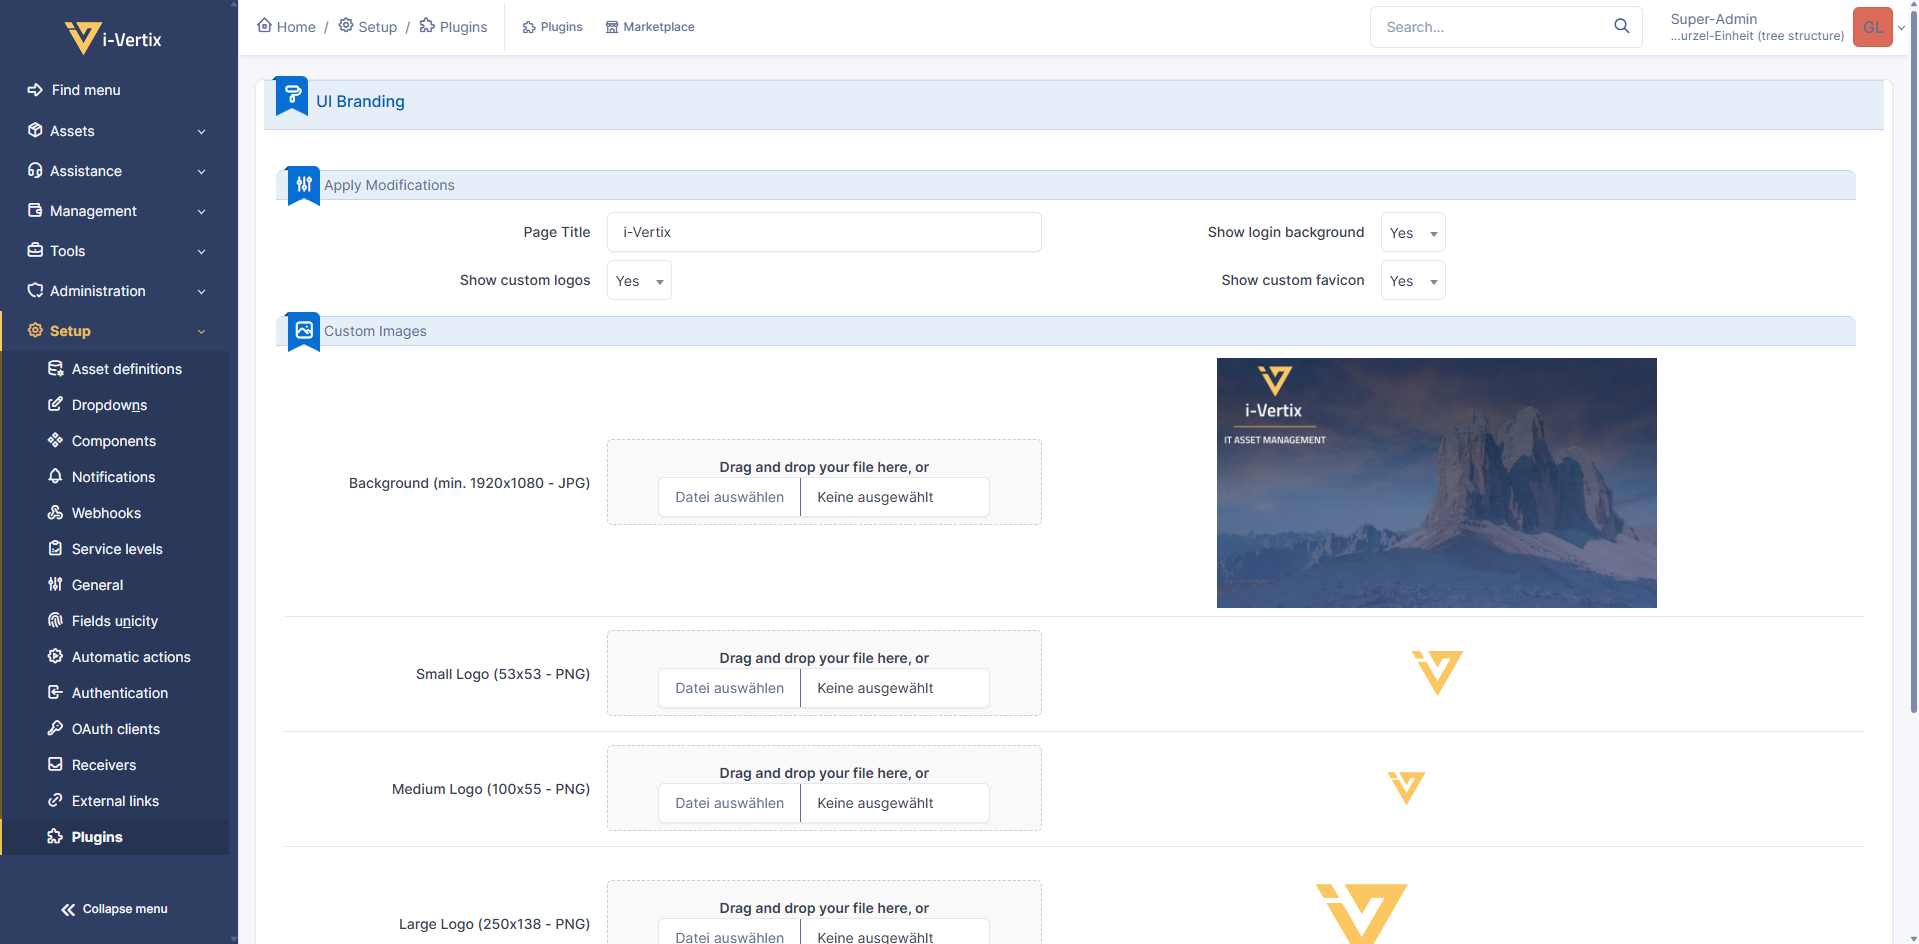
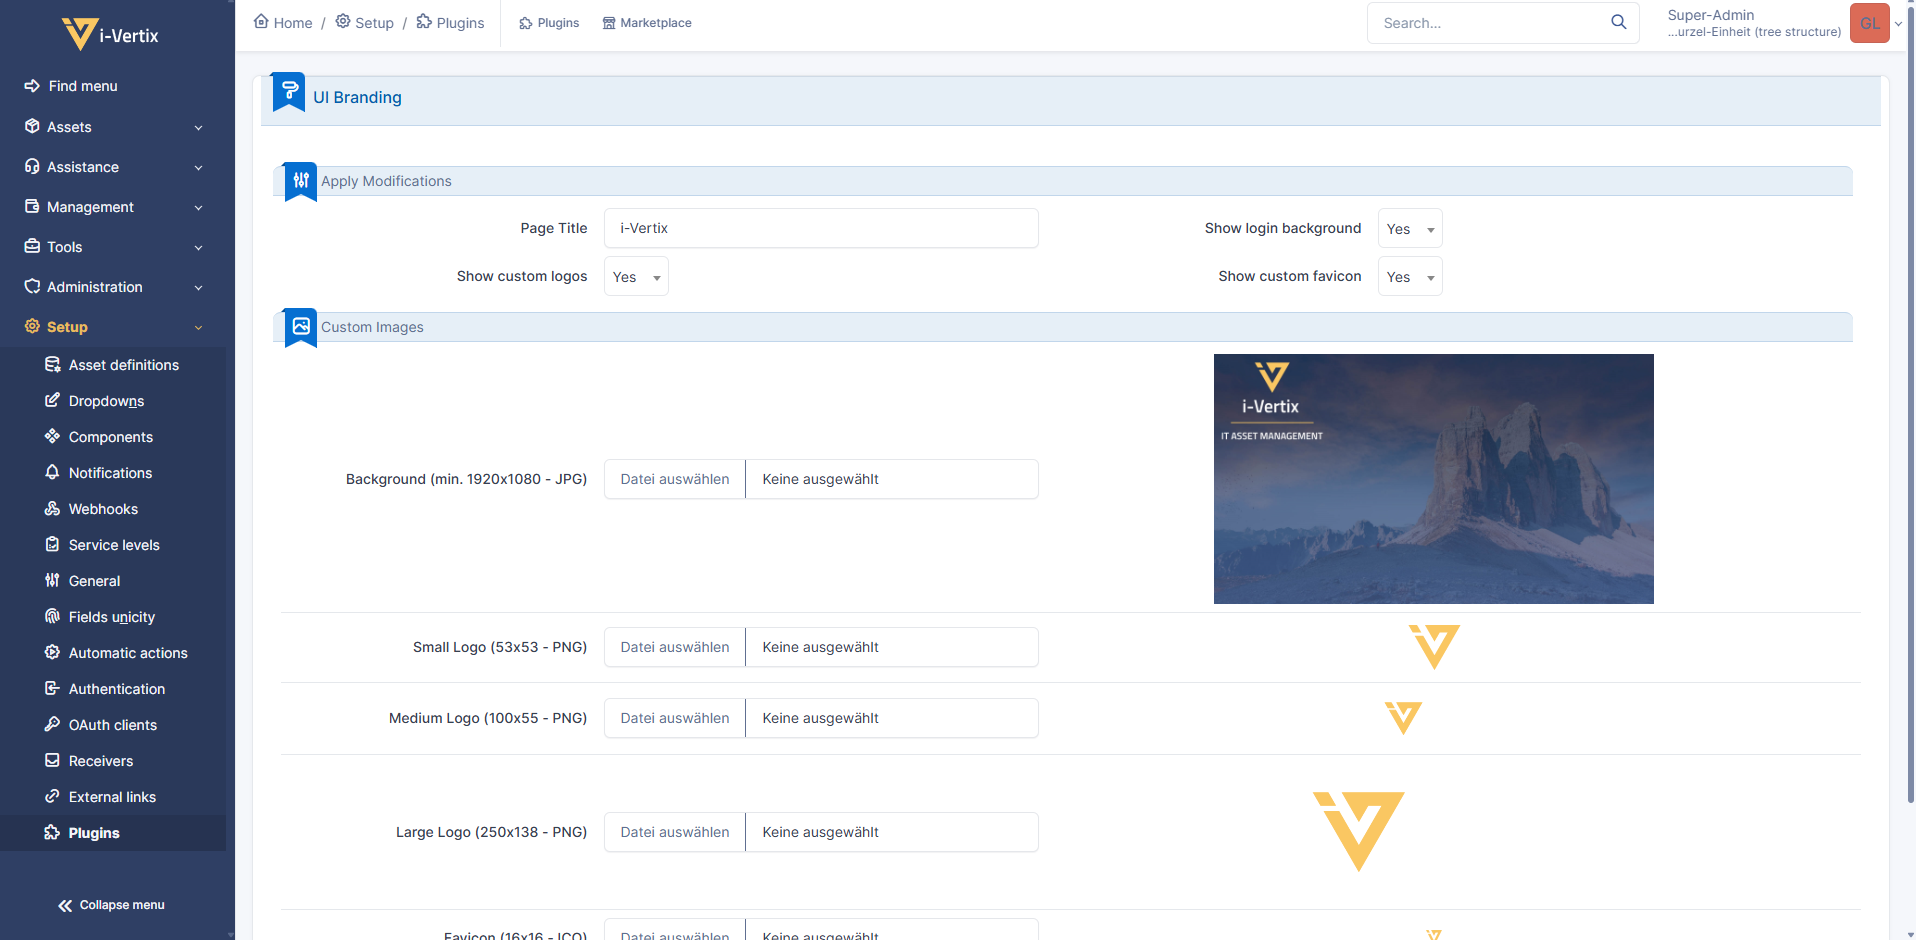
- removed active path for login background - created public (no login) background.php wrapper for background image - fix action path in UIBranding.php - update readme image - created resource.send.php wrapper for image resource previews

diff --git a/public/css/mod_anonymous.css b/public/css/mod_anonymous.css
@@ -27,6 +27,6 @@
  */
 
 .welcome-anonymous {
-    background: url(../../../../pics/plugin_mod/background.jpg) no-repeat fixed top;
+    background: url(../background.php) no-repeat fixed top;
     background-size: cover;
 }

diff --git a/src/BrandManager.php b/src/BrandManager.php
@@ -40,16 +40,35 @@ if (!defined('GLPI_ROOT')) {
 class BrandManager
 {
 
-    public const FILES_DIR = GLPI_ROOT . "/files/_plugins/mod";
+    public const FILES_DIR = GLPI_PLUGIN_DOC_DIR . "/mod";
     public const BACKUP_DIR = self::FILES_DIR . "/backups";
     public const IMAGES_DIR = self::FILES_DIR . "/images";
     public const RESOURCES_DIR = GLPI_ROOT . "/plugins/mod/resources";
-    private const PUBLIC_PICS_PLUGIN_DIR = GLPI_ROOT . "/public/pics/plugin_mod";
     public const IMAGE_RESOURCES = [
+        /*
+         * Something special about background.jpg:
+         * (OBSOLETE - FOUND SOLUTION BELOW)
+         * I tried to figure out several ways to not have to copy this beast into the public pics folder
+         * but everything I tried did not work out due to the strict routing limitations of GLPI 11.
+         * In GLPI 11 every php page load goes through the GLPI index/router and dismisses the request if not logged in
+         * This makes a cache-optimized wrapper php script obsolete. It would have provided the .jpg from the webserver restricted files/_plugins directory.
+         * There is also available a hook to integrate the plugin into the login page itself (Hooks::DISPLAY_LOGIN) but I did not want to
+         * base64 encode the background image due to performance concerns (no browser caching of the (large) background image).
+         * Other than that there is nothing I can actually do. Its not the best option to replace/delete from the glpi/public/pics folder, but here we are...
+         * glpi/plugins/mod/public could also work out but as glpi does absolutely not want plugins to write in their own directory I keep the glpi/public/pics directory for now
+         *
+         * (UPDATE - CURRENT SOLUTION)
+         * After having a hard time believing there is no such thing as "public" scripts (not logged in) I stumbled upon the GLPI Firewall and the possibility
+         * to add no_check (no login) strategies for plugin url patterns!
+         * Currently this is implemented in the plugin_init_mod function inside setup.php.
+         * I hope this little trick will also be available in future versions lol
+         * otherwise I need to roll back to my previous solutions :(
+         *
+         */
         "background" => [
             "default" => self::RESOURCES_DIR . "/images/background.jpg",
             "current" => self::IMAGES_DIR . "/background.jpg",
-            "active" => self::PUBLIC_PICS_PLUGIN_DIR . "/background.jpg",
+//            "active" => GLPI_ROOT . "/public/pics/plugin_mod_background.jpg",
             "accept" => ["jpeg", "jpg"]
         ],
         "favicon" => [
@@ -135,9 +154,6 @@ class BrandManager
         if (!file_exists(self::IMAGES_DIR) && !mkdir(self::IMAGES_DIR, 0644) && !is_dir(self::IMAGES_DIR)) {
             die(sprintf('Unable to create plugin directory (%s)', self::IMAGES_DIR));
         }
-        if (!file_exists(self::PUBLIC_PICS_PLUGIN_DIR) && !mkdir(self::PUBLIC_PICS_PLUGIN_DIR, 0644) && !is_dir(self::PUBLIC_PICS_PLUGIN_DIR)) {
-            die(sprintf('Unable to create public plugin directory (%s)', self::PUBLIC_PICS_PLUGIN_DIR));
-        }
         Session::addMessageAfterRedirect("🆗 Created plugin directories");
 
         // handle default images
@@ -146,7 +162,7 @@ class BrandManager
                 die("Unable to install $imageResource resource");
             }
             // create backup
-            if (isset($paths["backup"])) {
+            if (isset($paths["backup"], $paths["active"])) {
                 if (is_array($paths["backup"])) {
                     foreach ($paths["backup"] as $backupIndex => $backupPath) {
                         if (!file_exists($backupPath) && !copy($paths["active"][$backupIndex], $backupPath)) {
@@ -211,7 +227,7 @@ class BrandManager
      */
     public static function isActiveResourceModified(string $resourceName): bool
     {
-        if (!isset(self::IMAGE_RESOURCES[$resourceName]["active"])) return false;
+        if (!isset(self::IMAGE_RESOURCES[$resourceName]["active"], self::IMAGE_RESOURCES[$resourceName]["backup"])) return false;
 
         if (isset(self::IMAGE_RESOURCES[$resourceName]["backup"])) {
             // backups are made - check md5 hash of files
@@ -248,7 +264,7 @@ class BrandManager
      */
     public function restoreResource(string $resourceName): void
     {
-        if (!isset(self::IMAGE_RESOURCES[$resourceName])) return;
+        if (!isset(self::IMAGE_RESOURCES[$resourceName]["active"])) return;
         if (isset(self::IMAGE_RESOURCES[$resourceName]["backup"])) {
             if (is_array(self::IMAGE_RESOURCES[$resourceName]["active"])) {
                 // restore multiple files
@@ -285,7 +301,7 @@ class BrandManager
      */
     public function applyResource(string $resourceName): void
     {
-        if (!isset(self::IMAGE_RESOURCES[$resourceName])) return;
+        if (!isset(self::IMAGE_RESOURCES[$resourceName]["active"])) return;
         if (is_array(self::IMAGE_RESOURCES[$resourceName]["active"])) {
             foreach (self::IMAGE_RESOURCES[$resourceName]["active"] as $activeFile) {
                 copy(self::IMAGE_RESOURCES[$resourceName]["current"], $activeFile);
@@ -310,11 +326,21 @@ class BrandManager
     {
         if (!isset(self::IMAGE_RESOURCES[$resourceName])) return false;
         if (!isset($file["tmp_name"])) return false;
-        if (isset($file["error"]) && $file["error"] !== UPLOAD_ERR_OK) return false;
+        if (isset($file["error"]) && $file["error"] !== UPLOAD_ERR_OK) {
+            Session::addMessageAfterRedirect(sprintf("❌ Upload of file %s failed (file invalid)", $file["name"]));
+            return false;
+        }
 
         $extension = pathinfo($file["name"], PATHINFO_EXTENSION);
-        if (!in_array($extension, self::IMAGE_RESOURCES[$resourceName]["accept"], true)) return false;
-        return move_uploaded_file($file["tmp_name"], self::IMAGE_RESOURCES[$resourceName]["current"]);
+        if (!in_array($extension, self::IMAGE_RESOURCES[$resourceName]["accept"], true)) {
+            Session::addMessageAfterRedirect(sprintf("❌ Uploaded file %s is invalid (only %s accepted)", $file["name"], implode(", ", self::IMAGE_RESOURCES[$resourceName]["accept"])));
+            return false;
+        }
+        if (!move_uploaded_file($file["tmp_name"], self::IMAGE_RESOURCES[$resourceName]["current"])) {
+            Session::addMessageAfterRedirect(sprintf("❌ Upload of file %s failed", $file["name"]));
+            return false;
+        }
+        return true;
     }
 
     /**

diff --git a/src/UIBranding.php b/src/UIBranding.php
@@ -30,9 +30,7 @@
 
 namespace GlpiPlugin\Mod;
 
-use Dropdown;
 use Glpi\Application\View\TemplateRenderer;
-use Html;
 
 if (!defined('GLPI_ROOT')) {
     die("Sorry. You can't access directly to this file");
@@ -54,25 +52,20 @@ class UIBranding
         $faviconChanged = false;
 
         if (isset($files['background']['name']) && $files['background']['name'] !== '') {
-            $brandManager->uploadResource("background", $files['background']);
-            $backgroundChanged = true;
+            $backgroundChanged = $brandManager->uploadResource("background", $files['background']);
         }
         if (isset($files['logo_s']['name']) && $files['logo_s']['name'] !== '') {
-            $brandManager->uploadResource("logo_s", $files['logo_s']);
-            $logosChanged = true;
+            $logosChanged = $brandManager->uploadResource("logo_s", $files['logo_s']);
         }
         if (isset($files['logo_m']['name']) && $files['logo_m']['name'] !== '') {
-            $brandManager->uploadResource("logo_m", $files['logo_m']);
-            $logosChanged = true;
+            $logosChanged = $brandManager->uploadResource("logo_m", $files['logo_m']);
         }
         if (isset($files['logo_l']['name']) && $files['logo_l']['name'] !== '') {
-            $brandManager->uploadResource("logo_l", $files['logo_l']);
-            $logosChanged = true;
+            $logosChanged = $brandManager->uploadResource("logo_l", $files['logo_l']);
         }
 
         if (isset($files['favicon']['name']) && $files['favicon']['name'] !== '') {
-            $brandManager->uploadResource("favicon", $files['favicon']);
-            $faviconChanged = true;
+            $faviconChanged = $brandManager->uploadResource("favicon", $files['favicon']);
         }
 
         if (isset($data['show_background'])) {
@@ -142,11 +135,11 @@ class UIBranding
     public function display(): bool
     {
         TemplateRenderer::getInstance()->display('@mod/uibranding.html.twig', [
-            "url" => "/plugin/mod/front/uibranding.php",
+            "url" => "/plugins/mod/front/uibranding.php",
             "show_background" => BrandManager::isLoginPageModified(),
             "show_custom_logos" => BrandManager::isActiveResourceModified("logo_s")
-            || BrandManager::isActiveResourceModified("logo_m")
-            || BrandManager::isActiveResourceModified("logo_l"),
+                || BrandManager::isActiveResourceModified("logo_m")
+                || BrandManager::isActiveResourceModified("logo_l"),
             "show_custom_favicon" => BrandManager::isActiveResourceModified("favicon"),
             "title" => BrandManager::getCurrentTitle(),
         ]);

diff --git a/front/resource.send.php b/front/resource.send.php
@@ -28,41 +28,27 @@
  * -------------------------------------------------------------------------
  */
 
-use Glpi\Plugin\Hooks;
+use Glpi\Exception\Http\AccessDeniedHttpException;
 use GlpiPlugin\Mod\BrandManager;
+use function Safe\readfile;
 
-const PLUGIN_MOD_VERSION = "11.0.0";
-
-function plugin_init_mod()
-{
-    global $PLUGIN_HOOKS, $CFG_GLPI;
-
-    $PLUGIN_HOOKS['config_page']['mod'] = './front/uibranding.php';
-    if (Plugin::isPluginActive("mod")) {
-        $CFG_GLPI["app_name"] = BrandManager::getCurrentTitle();
-        if (BrandManager::isLoginPageModified()) {
-            // little bit hacky - could maybe be obsolete in upcoming versions
-            // this piece of hard-researched code enables the public/background.php wrapper file to be accessed without user being logged in
-            \Glpi\Http\Firewall::addPluginStrategyForLegacyScripts("mod", '/^\/background.php$/', \Glpi\Http\Firewall::STRATEGY_NO_CHECK);
-
-            $PLUGIN_HOOKS[Hooks::ADD_CSS_ANONYMOUS_PAGE]["mod"] = "./public/css/mod_anonymous.css";
-        }
-    }
+if (!Plugin::isPluginActive("mod")) {
+    throw new AccessDeniedHttpException();
 }
 
-function plugin_version_mod()
-{
-    global $LANG;
+Session::checkRight("config", UPDATE);
 
-    return array('name' => 'UI Branding',
-        'version' => PLUGIN_MOD_VERSION,
-        'author' => '<a href="https://www.i-vertix.com/">i-Vertix</a>',
-        'license' => 'GPLv3',
-        'homepage' => 'https://github.com/i-Vertix/glpi-modifications',
-        'requirements' => [
-            'glpi' => [
-                'min' => "11.0",
-                'max' => "12.0"
-            ]
-        ]);
+$key = $_GET['resource'] ?? '';
+if ($key === "" || !isset(BrandManager::IMAGE_RESOURCES[$key]["current"]) || !file_exists(BrandManager::IMAGE_RESOURCES[$key]["current"])) {
+    throw new AccessDeniedHttpException();
 }
+
+$file = BrandManager::IMAGE_RESOURCES[$key]["current"];
+
+header('Content-Type: ' . Toolbox::getMime($file));
+header('Cache-Control: no-store, no-cache, must-revalidate');
+header('Pragma: no-cache');
+header('Expires: Sun, 30 Jan 1966 06:30:00 GMT');
+header('Content-disposition: filename="' . basename($file) . '"');
+
+readfile($file);

diff --git a/public/background.php b/public/background.php
@@ -28,38 +28,31 @@
  * -------------------------------------------------------------------------
  */
 
-use GlpiPlugin\Mod\BrandManager;
+use Symfony\Component\HttpFoundation\Request;
+use Symfony\Component\HttpFoundation\Response;
+use Symfony\Component\HttpFoundation\BinaryFileResponse;
+use Symfony\Component\HttpFoundation\ResponseHeaderBag;
 
-$key = $_GET['resource'] ?? '';
-if ($key === "" || !isset(BrandManager::IMAGE_RESOURCES[$key])) {
-    http_response_code(404);
-    exit("Unknown resource");
-}
+$file = GLPI_PLUGIN_DOC_DIR . "/mod/images/background.jpg";
 
-$file = BrandManager::IMAGE_RESOURCES[$key]["current"];
 if (!file_exists($file)) {
-    http_response_code(404);
-    exit("Image not found");
+    return new Response('Image not found', 404);
 }
 
-$mime = false;
-if (function_exists('mime_content_type')) {
-    $mime = @mime_content_type($file);
+// remove existing conflicting headers
+if (!headers_sent()) {
+    header_remove('Pragma');
+    header_remove('Expires');
+    header_remove('Cache-Control');
 }
-if ($mime === false) {
-    // Fallback
-    $ext = strtolower(pathinfo($file, PATHINFO_EXTENSION));
-    $mimeMap = [
-        'jpg' => 'image/jpeg',
-        'png' => 'image/png',
-        'ico'  => 'image/x-icon',
-    ];
-    $mime = $mimeMap[$ext] ?? 'application/octet-stream';
-}
-header('Content-Type: ' . $mime);
-header('Cache-Control: no-store, no-cache, must-revalidate');
-header('Pragma: no-cache');
-header('Expires: 0');
 
-readfile($file);
-exit;
+$response = new BinaryFileResponse($file);
+$response->setPublic();
+$response->setMaxAge(31536000);
+$response->setSharedMaxAge(31536000);
+$response->mustRevalidate();
+$response->setEtag(md5_file($file));
+$response->setAutoLastModified();
+$response->setContentDisposition(ResponseHeaderBag::DISPOSITION_INLINE);
+$response->isNotModified(Request::createFromGlobals());
+return $response;
